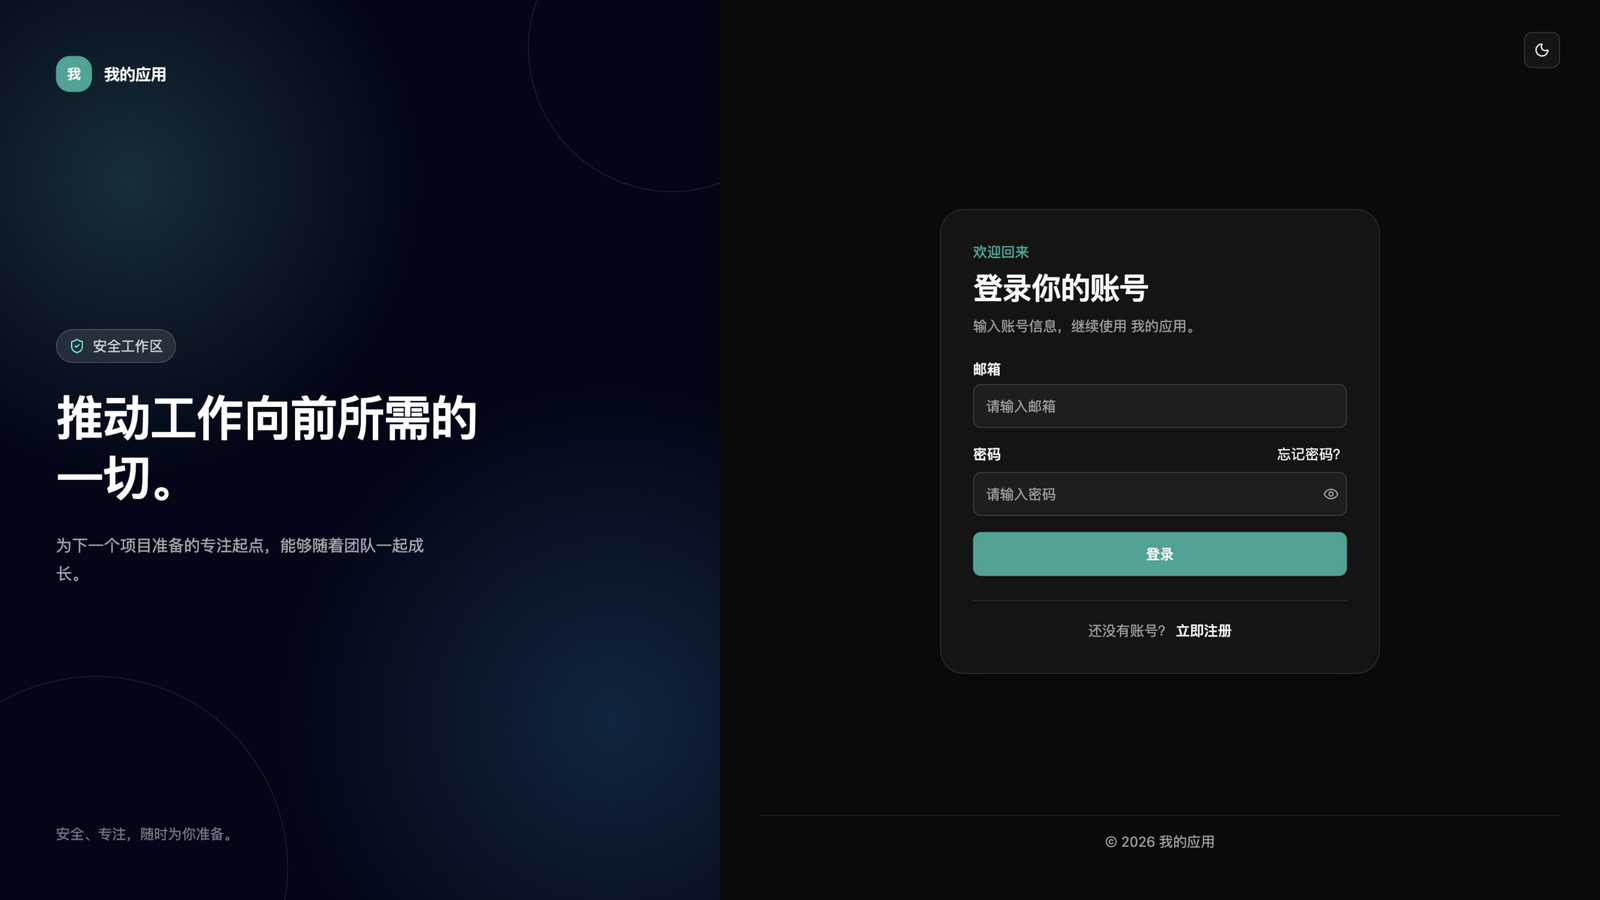
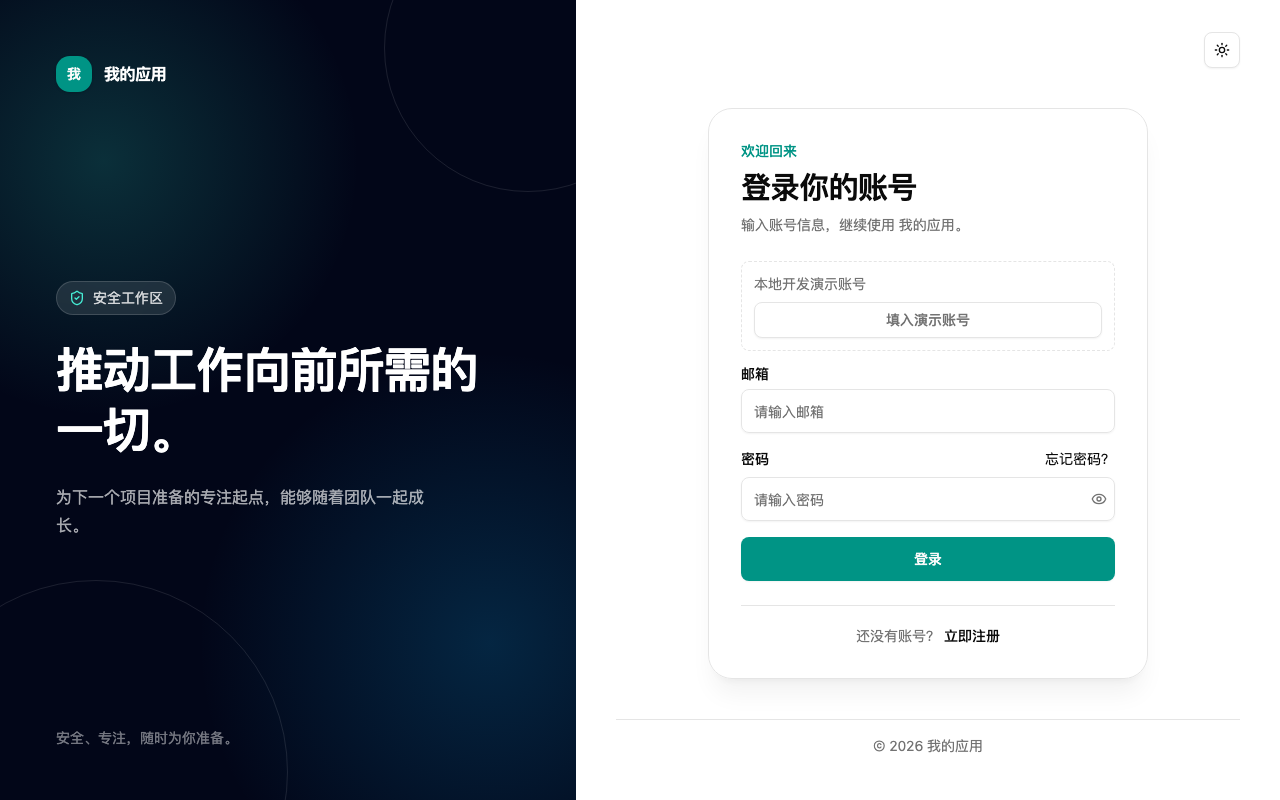
feat: 运维韧性批次——备份告警闭环（systemd timer+healthchecks 双向 ping，dry-run 可测）；备份空库计数容器内重试根治偶发竞态；前端 Sentry 异步接入（VITE_SENTRY_DSN 复用后端 DSN）；截图刷新工具+四张基线图（含新增审计页） (#90) (#91)

diff --git a/frontend/e2e/capture-screenshots.spec.ts b/frontend/e2e/capture-screenshots.spec.ts
@@ -1,0 +1,44 @@
+import { expect, test } from "@playwright/test"
+import { ADMIN_EMAIL, ADMIN_PASSWORD } from "./helpers"
+
+// README/文档截图刷新工具：默认跳过，CI 不跑。
+// 用法：CAPTURE_SCREENSHOTS=1 npx playwright test capture-screenshots
+// 产物覆盖 docs/screenshots/ 下同名文件（登录/工作台/用户管理/审计日志）。
+const OUT_DIR = new URL("../../docs/screenshots/", import.meta.url).pathname
+
+test.beforeEach(() => {
+  test.skip(
+    !process.env.CAPTURE_SCREENSHOTS,
+    "仅显式设置 CAPTURE_SCREENSHOTS=1 时运行（截图刷新工具，非回归测试）",
+  )
+})
+
+test("刷新基线截图", async ({ page }) => {
+  await page.setViewportSize({ width: 1280, height: 800 })
+
+  // 1. 登录页（登出态）
+  await page.goto("/login")
+  await expect(
+    page.getByRole("heading", { name: "登录你的账号" }),
+  ).toBeVisible()
+  await page.screenshot({ path: `${OUT_DIR}login.png` })
+
+  // 2. 登录进工作台
+  await page.getByTestId("email-input").fill(ADMIN_EMAIL)
+  await page.getByTestId("password-input").fill(ADMIN_PASSWORD)
+  await page.getByRole("button", { name: "登录" }).click()
+  await expect(page.getByText("很高兴再次见到你")).toBeVisible()
+  await page.screenshot({ path: `${OUT_DIR}dashboard.png` })
+
+  // 3. 用户管理
+  await page.goto("/admin")
+  await expect(page.getByRole("heading", { name: "用户管理" })).toBeVisible()
+  await expect(page.getByText("账号列表")).toBeVisible()
+  await page.screenshot({ path: `${OUT_DIR}user-management.png` })
+
+  // 4. 审计日志
+  await page.goto("/admin/audit")
+  await expect(page.getByRole("heading", { name: "审计日志" })).toBeVisible()
+  await expect(page.getByText("共 ").first()).toBeVisible()
+  await page.screenshot({ path: `${OUT_DIR}audit.png` })
+})

diff --git a/frontend/src/components/Common/ErrorComponent.tsx b/frontend/src/components/Common/ErrorComponent.tsx
@@ -1,11 +1,19 @@
 import { type ErrorComponentProps, useRouter } from "@tanstack/react-router"
+import { useEffect } from "react"
 import { Button } from "@/components/ui/button"
 import { extractErrorMessage } from "@/utils"
 
 const ErrorComponent = ({ error, reset }: ErrorComponentProps) => {
   const router = useRouter()
-  // 翻译成友好文案；原始 error 对象保留在闭包里供 Sentry 等上报使用
+  // 翻译成友好文案；原始 error 同时上报 Sentry（SDK 未启用/加载失败时静默跳过）
   const errorMessage = extractErrorMessage(error)
+
+  useEffect(() => {
+    if (!error) return
+    import("@sentry/react")
+      .then((Sentry) => Sentry.captureException(error))
+      .catch(() => {})
+  }, [error])
 
   return (
     <div

diff --git a/frontend/src/main.tsx b/frontend/src/main.tsx
@@ -13,6 +13,20 @@ const Toaster = lazy(() =>
   import("./components/ui/sonner").then((mod) => ({ default: mod.Toaster })),
 )
 
+// 前端 Sentry（可选）：配置了 VITE_SENTRY_DSN 才启用。SDK 异步加载不进首屏
+// 关键路径（代价是错过最初几十毫秒的错误，可接受）；错误主动上报见 ErrorComponent
+const sentryDsn = import.meta.env.VITE_SENTRY_DSN
+if (sentryDsn) {
+  void import("@sentry/react").then((Sentry) => {
+    Sentry.init({
+      dsn: sentryDsn,
+      environment: import.meta.env.MODE,
+      // 错误默认全采；链路追踪需要后端配套，先不采
+      tracesSampleRate: 0,
+    })
+  })
+}
+
 configureSession()
 
 const router = createRouter({ routeTree })

diff --git a/frontend/src/vite-env.d.ts b/frontend/src/vite-env.d.ts
@@ -2,6 +2,8 @@
 
 interface ImportMetaEnv {
   readonly VITE_API_URL: string
+  /** 可选：配置后启用前端 Sentry（与后端共用一个 DSN 即可） */
+  readonly VITE_SENTRY_DSN: string | undefined
 }
 
 interface ImportMeta {

diff --git a/scripts/test_delivery.py b/scripts/test_delivery.py
@@ -142,6 +142,44 @@ class PermissionTests(unittest.TestCase):
         self.assertTrue(any("未注册" in item for item in check(self.root)))
 
 
+class BackupTimerInstallerTests(unittest.TestCase):
+    """dry-run 走真实安装脚本：生成的 unit 内容与校验逻辑有回归覆盖。"""
+
+    def setUp(self):
+        self.temp = tempfile.TemporaryDirectory()
+        self.addCleanup(self.temp.cleanup)
+        self.root = Path(self.temp.name)
+        target = self.root / "scripts/install-backup-timer.sh"
+        target.parent.mkdir(parents=True, exist_ok=True)
+        shutil.copy(ROOT / "scripts/install-backup-timer.sh", target)
+
+    def test_dry_run_renders_units_and_rejects_bad_args(self):
+        run = lambda *args: subprocess.run(
+            ["bash", str(self.root / "scripts/install-backup-timer.sh"), *args],
+            cwd=self.root, text=True, capture_output=True, check=False,
+        )
+        ok = run(
+            "--backups-dir", str(self.root / "backups"),
+            "--healthchecks-url", "https://hc-ping.com/test-uuid",
+            "--schedule", "03:30",
+            "--dry-run",
+        )
+        self.assertEqual(ok.returncode, 0, ok.stderr)
+        # unit 名、排期、双向 ping 与启用命令都必须出现在渲染结果里
+        self.assertIn("backup-", ok.stdout)
+        self.assertIn("OnCalendar=*-*-* 03:30:00", ok.stdout)
+        self.assertIn("Persistent=true", ok.stdout)
+        self.assertIn("https://hc-ping.com/test-uuid/fail", ok.stdout)
+        self.assertIn("systemctl enable --now", ok.stdout)
+        self.assertEqual((self.root / "backups").stat().st_mode & 0o777, 0o700)
+
+        # 参数校验：非法时间与非法 URL 都必须拒绝且退出非零
+        self.assertNotEqual(run("--schedule", "25:00", "--dry-run").returncode, 0)
+        self.assertNotEqual(
+            run("--healthchecks-url", "ftp://x", "--dry-run").returncode, 0
+        )
+
+
 class SmokeTransportTests(unittest.TestCase):
     def test_required_credentials_fail_without_network_or_secret_output(self):
         result = subprocess.run(

diff --git a/scripts/backup_restore.py b/scripts/backup_restore.py
@@ -150,16 +150,21 @@ class Deployment:
         if any(name in running for name in ("backend", "frontend", "prestart")):
             raise RuntimeError("Stop frontend, backend and prestart before restoring")
         self.run("up", "-d", "--wait", "db")
+        # --wait 只等 healthcheck 通过，psql 仍可能撞上启动窗口（CI 偶发 exit 2 竞态）：
+        # 计数放进容器内重试循环，30 秒内拿到结果，全部失败才报错
         result = self.run(
             "exec",
             "-T",
             "db",
             "sh",
             "-c",
-            'exec psql -U "$POSTGRES_USER" -d "$POSTGRES_DB" -Atc '
-            '"SELECT count(*) FROM pg_class c JOIN pg_namespace n ON n.oid=c.relnamespace '
+            'sql="SELECT count(*) FROM pg_class c JOIN pg_namespace n ON n.oid=c.relnamespace '
             "WHERE n.nspname NOT IN ('pg_catalog','information_schema') "
-            "AND n.nspname NOT LIKE 'pg_toast%' AND c.relkind IN ('r','p','v','m','S','f')\"",
+            "AND n.nspname NOT LIKE 'pg_toast%' AND c.relkind IN ('r','p','v','m','S','f')\"; "
+            'for i in $(seq 1 30); do '
+            'count=$(exec psql -U "$POSTGRES_USER" -d "$POSTGRES_DB" -Atc "$sql" 2>/dev/null) '
+            "&& break; sleep 1; done; "
+            '[ -n "$count" ] || exit 1; echo "$count"',
             capture_output=True,
             text=True,
         )

diff --git a/docs/deployment.md b/docs/deployment.md
@@ -119,13 +119,18 @@ python3 scripts/backup_restore.py backup /srv/backups/项目名 --project-dir /s
 
 每次产生独立快照目录，包含 `database.dump`、`uploads.tar` 和 `manifest.json`。失败时脚本会删除本次创建的快照目录，保留历史成功快照；未生成完整 manifest 或校验失败的目录不可恢复。应按保留期限定期清理过期快照，异常断电或进程被强制终止留下的半成品也需清理。文件不包含生产 `.env`，灾难恢复时仍需从 GitHub Secrets 配置新环境。
 
-定时任务示例（替换项目路径；按磁盘容量与数据保留要求设置异机存储生命周期）：
+定时备份与失败告警（systemd 服务器一键安装；timer 每日 03:00 错峰执行、关机错过补跑）：
 
-```cron
-0 3 * * * /usr/bin/python3 /srv/项目部署目录/scripts/backup_restore.py backup /srv/backups/项目名 --project-dir /srv/项目部署目录 >> /srv/backups/项目名/backup.log 2>&1
+```bash
+# 先 dry-run 预览将安装的 unit（不需要 root）
+bash scripts/install-backup-timer.sh --backups-dir /srv/backups/项目名 --healthchecks-url https://hc-ping.com/<uuid> --dry-run
+# 确认后安装
+sudo bash scripts/install-backup-timer.sh --backups-dir /srv/backups/项目名 --healthchecks-url https://hc-ping.com/<uuid>
+# 手动触发一次验证链路
+sudo systemctl start backup-<compose项目名>.service && journalctl -u backup-<compose项目名>.service -e
 ```
 
-安装定时任务前先创建备份目录并限制权限；配置备份失败告警。应定期在隔离环境恢复最新快照，不能只检查文件存在。
+告警为 healthchecks 类死人开关：备份成功 ping 基础 URL、失败 ping `/fail`；timer 本身静默失效时由对方"超时未 ping"告警兜底。无 systemd 的服务器退回手写 cron（命令见 `install-backup-timer.sh` 生成的 ExecStart）。按磁盘容量与数据保留要求设置异机存储生命周期；应定期在隔离环境恢复最新快照，不能只检查文件存在。
 
 ### 校验与恢复
 

diff --git a/README.md b/README.md
@@ -55,8 +55,11 @@ guanlili 的个人全栈项目模板。基于 [fastapi/full-stack-fastapi-templa
 **登录页（品牌区可按 --brand 定制）**
 ![登录页](docs/screenshots/login.png)
 
-**用户管理（角色权限、审计同款风格）**
+**用户管理（角色权限同款风格）**
 ![用户管理](docs/screenshots/user-management.png)
+
+**审计日志（超管查询，按动作过滤）**
+![审计日志](docs/screenshots/audit.png)
 
 </details>
 
@@ -146,7 +149,7 @@ cd frontend && npm test                             # 前端（Node 内置测试
 交付前三件套：
 
 1. `bash scripts/check-template.sh` — 模板文件、脚本语法、Compose 配置、示例残留与 **README 项目化**检查
-2. README 截图按当前界面更新（hero 图 + 主要界面，见 [docs/readme-template.md](docs/readme-template.md)）
+2. README 截图按当前界面更新：`cd frontend && CAPTURE_SCREENSHOTS=1 npx playwright test capture-screenshots`（详见 [docs/readme-template.md](docs/readme-template.md)）
 3. 导出验收表（装有 devledger 时）：`python3 ~/.agents/skills/devledger/scripts/export-timesheet.py --project <Project编号>`
 
 ---
